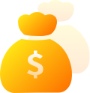
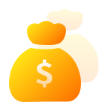
fix：替换图标和修改图标的尺寸

diff --git a/src/pages/fund/index/views/fund-index/index.scss b/src/pages/fund/index/views/fund-index/index.scss
@@ -361,26 +361,28 @@
             align-items: center;
             text-align: center;
             img {
-                &.item-1 {
-                    width: 30px;
-                    height: 30px;
-                }
-                &.item-2 {
-                    width: 30px;
-                    height: 30px;
-                }
-                &.item-3 {
-                    width: 30px;
-                    height: 30px;
-                }
-                &.item-4 {
-                    width: 30px;
-                    height: 30px;
-                }
-                &.item-5 {
-                    width: 30px;
-                    height: 30px;
-                }
+                width: 36px;
+                height: 36px;
+                // &.item-1 {
+                    // width: 30px;
+                    // height: 30px;
+                // }
+                // &.item-2 {
+                //     width: 30px;
+                //     height: 30px;
+                // }
+                // &.item-3 {
+                //     width: 30px;
+                //     height: 30px;
+                // }
+                // &.item-4 {
+                //     width: 30px;
+                //     height: 30px;
+                // }
+                // &.item-5 {
+                //     width: 30px;
+                //     height: 30px;
+                // }
             }
             span {
                 margin:5px 0 0 0;
